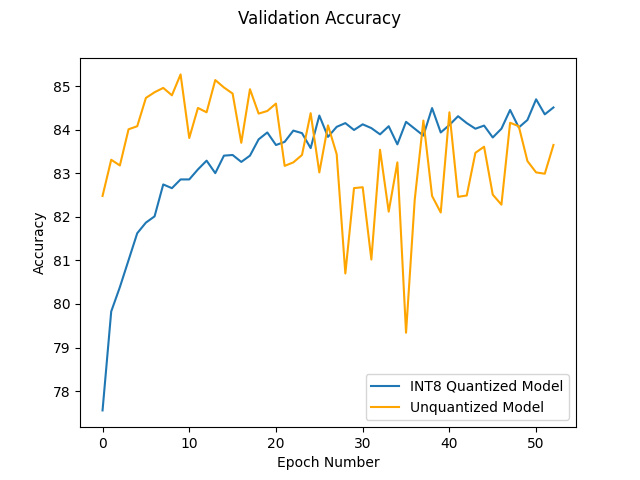
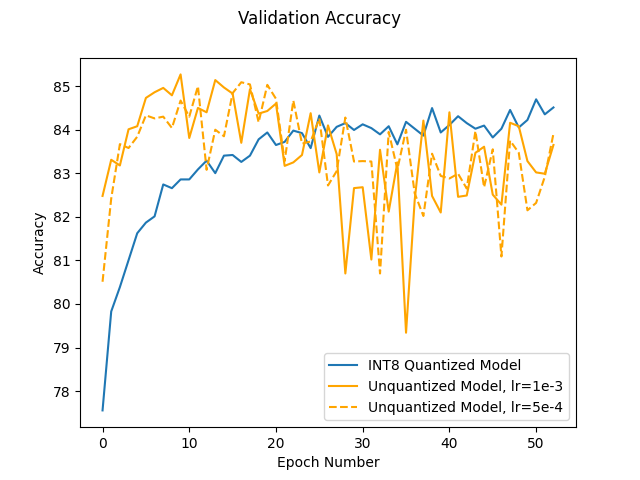
updated stats

diff --git a/parse_cudalog.py b/parse_cudalog.py
@@ -11,9 +11,10 @@ def convert_size(size_bytes):
     return f"{round(size_bytes, 2)} {size_name[i]}"
 
 
-qat_output = "[('active.all.allocated', 23497752), ('active.all.current', 1780), ('active.all.freed', 23495972), ('active.all.peak', 2635), ('active.large_pool.allocated', 8808954), ('active.large_pool.current', 333), ('active.large_pool.freed', 8808621), ('active.large_pool.peak', 890), ('active.small_pool.allocated', 14688798), ('active.small_pool.current', 1447), ('active.small_pool.freed', 14687351), ('active.small_pool.peak', 2076), ('active_bytes.all.allocated', 404802994906112), ('active_bytes.all.current', 1254882816), ('active_bytes.all.freed', 404801740023296), ('active_bytes.all.peak', 22251564544), ('active_bytes.large_pool.allocated', 404201313150976), ('active_bytes.large_pool.current', 1176536064), ('active_bytes.large_pool.freed', 404200136614912), ('active_bytes.large_pool.peak', 22144094208), ('active_bytes.small_pool.allocated', 601681755136), ('active_bytes.small_pool.current', 78346752), ('active_bytes.small_pool.freed', 601603408384), ('active_bytes.small_pool.peak', 107694080), ('allocated_bytes.all.allocated', 404802994906112), ('allocated_bytes.all.current', 1254882816), ('allocated_bytes.all.freed', 404801740023296), ('allocated_bytes.all.peak', 22251564544), ('allocated_bytes.large_pool.allocated', 404201313150976), ('allocated_bytes.large_pool.current', 1176536064), ('allocated_bytes.large_pool.freed', 404200136614912), ('allocated_bytes.large_pool.peak', 22144094208), ('allocated_bytes.small_pool.allocated', 601681755136), ('allocated_bytes.small_pool.current', 78346752), ('allocated_bytes.small_pool.freed', 601603408384), ('allocated_bytes.small_pool.peak', 107694080), ('allocation.all.allocated', 23497752), ('allocation.all.current', 1780), ('allocation.all.freed', 23495972), ('allocation.all.peak', 2635), ('allocation.large_pool.allocated', 8808954), ('allocation.large_pool.current', 333), ('allocation.large_pool.freed', 8808621), ('allocation.large_pool.peak', 890), ('allocation.small_pool.allocated', 14688798), ('allocation.small_pool.current', 1447), ('allocation.small_pool.freed', 14687351), ('allocation.small_pool.peak', 2076), ('inactive_split.all.allocated', 12665290), ('inactive_split.all.current', 126), ('inactive_split.all.freed', 12665164), ('inactive_split.all.peak', 168), ('inactive_split.large_pool.allocated', 4576309), ('inactive_split.large_pool.current', 87), ('inactive_split.large_pool.freed', 4576222), ('inactive_split.large_pool.peak', 106), ('inactive_split.small_pool.allocated', 8088981), ('inactive_split.small_pool.current', 39), ('inactive_split.small_pool.freed', 8088942), ('inactive_split.small_pool.peak', 90), ('inactive_split_bytes.all.allocated', 347615711572480), ('inactive_split_bytes.all.current', 6491996672), ('inactive_split_bytes.all.freed', 347609219575808), ('inactive_split_bytes.all.peak', 9727244800), ('inactive_split_bytes.large_pool.allocated', 346994862205952), ('inactive_split_bytes.large_pool.current', 6475971584), ('inactive_split_bytes.large_pool.freed', 346988386234368), ('inactive_split_bytes.large_pool.peak', 9711240192), ('inactive_split_bytes.small_pool.allocated', 620849366528), ('inactive_split_bytes.small_pool.current', 16025088), ('inactive_split_bytes.small_pool.freed', 620833341440), ('inactive_split_bytes.small_pool.peak', 27055104), ('max_split_size', -1), ('num_alloc_retries', 0), ('num_ooms', 0), ('oversize_allocations.allocated', 0), ('oversize_allocations.current', 0), ('oversize_allocations.freed', 0), ('oversize_allocations.peak', 0), ('oversize_segments.allocated', 0), ('oversize_segments.current', 0), ('oversize_segments.freed', 0), ('oversize_segments.peak', 0), ('reserved_bytes.all.allocated', 22724739072), ('reserved_bytes.all.current', 22477275136), ('reserved_bytes.all.freed', 247463936), ('reserved_bytes.all.peak', 22477275136), ('reserved_bytes.large_pool.allocated', 22605201408), ('reserved_bytes.large_pool.current', 22366126080), ('reserved_bytes.large_pool.freed', 239075328), ('reserved_bytes.large_pool.peak', 22366126080), ('reserved_bytes.small_pool.allocated', 119537664), ('reserved_bytes.small_pool.current', 111149056), ('reserved_bytes.small_pool.freed', 8388608), ('reserved_bytes.small_pool.peak', 111149056), ('segment.all.allocated', 186), ('segment.all.current', 179), ('segment.all.freed', 7), ('segment.all.peak', 179), ('segment.large_pool.allocated', 129), ('segment.large_pool.current', 126), ('segment.large_pool.freed', 3), ('segment.large_pool.peak', 126), ('segment.small_pool.allocated', 57), ('segment.small_pool.current', 53), ('segment.small_pool.freed', 4), ('segment.small_pool.peak', 53)]"
-vit_output = "[('active.all.allocated', 3735129), ('active.all.current', 721), ('active.all.freed', 3734408), ('active.all.peak', 1300), ('active.large_pool.allocated', 1434171), ('active.large_pool.current', 171), ('active.large_pool.freed', 1434000), ('active.large_pool.peak', 455), ('active.small_pool.allocated', 2300958), ('active.small_pool.current', 550), ('active.small_pool.freed', 2300408), ('active.small_pool.peak', 922), ('active_bytes.all.allocated', 104793636515328), ('active_bytes.all.current', 814213120), ('active_bytes.all.freed', 104792822302208), ('active_bytes.all.peak', 21219655680), ('active_bytes.large_pool.allocated', 104321173530624), ('active_bytes.large_pool.current', 764690432), ('active_bytes.large_pool.freed', 104320408840192), ('active_bytes.large_pool.peak', 21118613504), ('active_bytes.small_pool.allocated', 472462984704), ('active_bytes.small_pool.current', 49522688), ('active_bytes.small_pool.freed', 472413462016), ('active_bytes.small_pool.peak', 103129088), ('allocated_bytes.all.allocated', 104793636515328), ('allocated_bytes.all.current', 814213120), ('allocated_bytes.all.freed', 104792822302208), ('allocated_bytes.all.peak', 21219655680), ('allocated_bytes.large_pool.allocated', 104321173530624), ('allocated_bytes.large_pool.current', 764690432), ('allocated_bytes.large_pool.freed', 104320408840192), ('allocated_bytes.large_pool.peak', 21118613504), ('allocated_bytes.small_pool.allocated', 472462984704), ('allocated_bytes.small_pool.current', 49522688), ('allocated_bytes.small_pool.freed', 472413462016), ('allocated_bytes.small_pool.peak', 103129088), ('allocation.all.allocated', 3735129), ('allocation.all.current', 721), ('allocation.all.freed', 3734408), ('allocation.all.peak', 1300), ('allocation.large_pool.allocated', 1434171), ('allocation.large_pool.current', 171), ('allocation.large_pool.freed', 1434000), ('allocation.large_pool.peak', 455), ('allocation.small_pool.allocated', 2300958), ('allocation.small_pool.current', 550), ('allocation.small_pool.freed', 2300408), ('allocation.small_pool.peak', 922), ('inactive_split.all.allocated', 1831976), ('inactive_split.all.current', 65), ('inactive_split.all.freed', 1831911), ('inactive_split.all.peak', 154), ('inactive_split.large_pool.allocated', 682776), ('inactive_split.large_pool.current', 32), ('inactive_split.large_pool.freed', 682744), ('inactive_split.large_pool.peak', 116), ('inactive_split.small_pool.allocated', 1149200), ('inactive_split.small_pool.current', 33), ('inactive_split.small_pool.freed', 1149167), ('inactive_split.small_pool.peak', 70), ('inactive_split_bytes.all.allocated', 45603520485888), ('inactive_split_bytes.all.current', 666376192), ('inactive_split_bytes.all.freed', 45602854109696), ('inactive_split_bytes.all.peak', 2876618752), ('inactive_split_bytes.large_pool.allocated', 45123942183936), ('inactive_split_bytes.large_pool.current', 655081472), ('inactive_split_bytes.large_pool.freed', 45123287102464), ('inactive_split_bytes.large_pool.peak', 2852038656), ('inactive_split_bytes.small_pool.allocated', 479578301952), ('inactive_split_bytes.small_pool.current', 11294720), ('inactive_split_bytes.small_pool.freed', 479567007232), ('inactive_split_bytes.small_pool.peak', 36898816), ('max_split_size', -1), ('num_alloc_retries', 0), ('num_ooms', 0), ('oversize_allocations.allocated', 0), ('oversize_allocations.current', 0), ('oversize_allocations.freed', 0), ('oversize_allocations.peak', 0), ('oversize_segments.allocated', 0), ('oversize_segments.current', 0), ('oversize_segments.freed', 0), ('oversize_segments.peak', 0), ('requested_bytes.all.allocated', 104696113678878), ('requested_bytes.all.current', 813142816), ('requested_bytes.all.freed', 104695300536062), ('requested_bytes.all.peak', 21200522088), ('requested_bytes.large_pool.allocated', 104223750544100), ('requested_bytes.large_pool.current', 763631616), ('requested_bytes.large_pool.freed', 104222986912484), ('requested_bytes.large_pool.peak', 21099512704), ('requested_bytes.small_pool.allocated', 472363134778), ('requested_bytes.small_pool.current', 49511200), ('requested_bytes.small_pool.freed', 472313623578), ('requested_bytes.small_pool.peak', 103115432), ('reserved_bytes.all.allocated', 21904752640), ('reserved_bytes.all.current', 21904752640), ('reserved_bytes.all.freed', 0), ('reserved_bytes.all.peak', 21904752640), ('reserved_bytes.large_pool.allocated', 21797797888), ('reserved_bytes.large_pool.current', 21797797888), ('reserved_bytes.large_pool.freed', 0), ('reserved_bytes.large_pool.peak', 21797797888), ('reserved_bytes.small_pool.allocated', 106954752), ('reserved_bytes.small_pool.current', 106954752), ('reserved_bytes.small_pool.freed', 0), ('reserved_bytes.small_pool.peak', 106954752), ('segment.all.allocated', 224), ('segment.all.current', 224), ('segment.all.freed', 0), ('segment.all.peak', 224), ('segment.large_pool.allocated', 173), ('segment.large_pool.current', 173), ('segment.large_pool.freed', 0), ('segment.large_pool.peak', 173), ('segment.small_pool.allocated', 51), ('segment.small_pool.current', 51), ('segment.small_pool.freed', 0), ('segment.small_pool.peak', 51)]"
-
+# qat_output = "[('active.all.allocated', 23497752), ('active.all.current', 1780), ('active.all.freed', 23495972), ('active.all.peak', 2635), ('active.large_pool.allocated', 8808954), ('active.large_pool.current', 333), ('active.large_pool.freed', 8808621), ('active.large_pool.peak', 890), ('active.small_pool.allocated', 14688798), ('active.small_pool.current', 1447), ('active.small_pool.freed', 14687351), ('active.small_pool.peak', 2076), ('active_bytes.all.allocated', 404802994906112), ('active_bytes.all.current', 1254882816), ('active_bytes.all.freed', 404801740023296), ('active_bytes.all.peak', 22251564544), ('active_bytes.large_pool.allocated', 404201313150976), ('active_bytes.large_pool.current', 1176536064), ('active_bytes.large_pool.freed', 404200136614912), ('active_bytes.large_pool.peak', 22144094208), ('active_bytes.small_pool.allocated', 601681755136), ('active_bytes.small_pool.current', 78346752), ('active_bytes.small_pool.freed', 601603408384), ('active_bytes.small_pool.peak', 107694080), ('allocated_bytes.all.allocated', 404802994906112), ('allocated_bytes.all.current', 1254882816), ('allocated_bytes.all.freed', 404801740023296), ('allocated_bytes.all.peak', 22251564544), ('allocated_bytes.large_pool.allocated', 404201313150976), ('allocated_bytes.large_pool.current', 1176536064), ('allocated_bytes.large_pool.freed', 404200136614912), ('allocated_bytes.large_pool.peak', 22144094208), ('allocated_bytes.small_pool.allocated', 601681755136), ('allocated_bytes.small_pool.current', 78346752), ('allocated_bytes.small_pool.freed', 601603408384), ('allocated_bytes.small_pool.peak', 107694080), ('allocation.all.allocated', 23497752), ('allocation.all.current', 1780), ('allocation.all.freed', 23495972), ('allocation.all.peak', 2635), ('allocation.large_pool.allocated', 8808954), ('allocation.large_pool.current', 333), ('allocation.large_pool.freed', 8808621), ('allocation.large_pool.peak', 890), ('allocation.small_pool.allocated', 14688798), ('allocation.small_pool.current', 1447), ('allocation.small_pool.freed', 14687351), ('allocation.small_pool.peak', 2076), ('inactive_split.all.allocated', 12665290), ('inactive_split.all.current', 126), ('inactive_split.all.freed', 12665164), ('inactive_split.all.peak', 168), ('inactive_split.large_pool.allocated', 4576309), ('inactive_split.large_pool.current', 87), ('inactive_split.large_pool.freed', 4576222), ('inactive_split.large_pool.peak', 106), ('inactive_split.small_pool.allocated', 8088981), ('inactive_split.small_pool.current', 39), ('inactive_split.small_pool.freed', 8088942), ('inactive_split.small_pool.peak', 90), ('inactive_split_bytes.all.allocated', 347615711572480), ('inactive_split_bytes.all.current', 6491996672), ('inactive_split_bytes.all.freed', 347609219575808), ('inactive_split_bytes.all.peak', 9727244800), ('inactive_split_bytes.large_pool.allocated', 346994862205952), ('inactive_split_bytes.large_pool.current', 6475971584), ('inactive_split_bytes.large_pool.freed', 346988386234368), ('inactive_split_bytes.large_pool.peak', 9711240192), ('inactive_split_bytes.small_pool.allocated', 620849366528), ('inactive_split_bytes.small_pool.current', 16025088), ('inactive_split_bytes.small_pool.freed', 620833341440), ('inactive_split_bytes.small_pool.peak', 27055104), ('max_split_size', -1), ('num_alloc_retries', 0), ('num_ooms', 0), ('oversize_allocations.allocated', 0), ('oversize_allocations.current', 0), ('oversize_allocations.freed', 0), ('oversize_allocations.peak', 0), ('oversize_segments.allocated', 0), ('oversize_segments.current', 0), ('oversize_segments.freed', 0), ('oversize_segments.peak', 0), ('reserved_bytes.all.allocated', 22724739072), ('reserved_bytes.all.current', 22477275136), ('reserved_bytes.all.freed', 247463936), ('reserved_bytes.all.peak', 22477275136), ('reserved_bytes.large_pool.allocated', 22605201408), ('reserved_bytes.large_pool.current', 22366126080), ('reserved_bytes.large_pool.freed', 239075328), ('reserved_bytes.large_pool.peak', 22366126080), ('reserved_bytes.small_pool.allocated', 119537664), ('reserved_bytes.small_pool.current', 111149056), ('reserved_bytes.small_pool.freed', 8388608), ('reserved_bytes.small_pool.peak', 111149056), ('segment.all.allocated', 186), ('segment.all.current', 179), ('segment.all.freed', 7), ('segment.all.peak', 179), ('segment.large_pool.allocated', 129), ('segment.large_pool.current', 126), ('segment.large_pool.freed', 3), ('segment.large_pool.peak', 126), ('segment.small_pool.allocated', 57), ('segment.small_pool.current', 53), ('segment.small_pool.freed', 4), ('segment.small_pool.peak', 53)]"
+# vit_output = "[('active.all.allocated', 3735129), ('active.all.current', 721), ('active.all.freed', 3734408), ('active.all.peak', 1300), ('active.large_pool.allocated', 1434171), ('active.large_pool.current', 171), ('active.large_pool.freed', 1434000), ('active.large_pool.peak', 455), ('active.small_pool.allocated', 2300958), ('active.small_pool.current', 550), ('active.small_pool.freed', 2300408), ('active.small_pool.peak', 922), ('active_bytes.all.allocated', 104793636515328), ('active_bytes.all.current', 814213120), ('active_bytes.all.freed', 104792822302208), ('active_bytes.all.peak', 21219655680), ('active_bytes.large_pool.allocated', 104321173530624), ('active_bytes.large_pool.current', 764690432), ('active_bytes.large_pool.freed', 104320408840192), ('active_bytes.large_pool.peak', 21118613504), ('active_bytes.small_pool.allocated', 472462984704), ('active_bytes.small_pool.current', 49522688), ('active_bytes.small_pool.freed', 472413462016), ('active_bytes.small_pool.peak', 103129088), ('allocated_bytes.all.allocated', 104793636515328), ('allocated_bytes.all.current', 814213120), ('allocated_bytes.all.freed', 104792822302208), ('allocated_bytes.all.peak', 21219655680), ('allocated_bytes.large_pool.allocated', 104321173530624), ('allocated_bytes.large_pool.current', 764690432), ('allocated_bytes.large_pool.freed', 104320408840192), ('allocated_bytes.large_pool.peak', 21118613504), ('allocated_bytes.small_pool.allocated', 472462984704), ('allocated_bytes.small_pool.current', 49522688), ('allocated_bytes.small_pool.freed', 472413462016), ('allocated_bytes.small_pool.peak', 103129088), ('allocation.all.allocated', 3735129), ('allocation.all.current', 721), ('allocation.all.freed', 3734408), ('allocation.all.peak', 1300), ('allocation.large_pool.allocated', 1434171), ('allocation.large_pool.current', 171), ('allocation.large_pool.freed', 1434000), ('allocation.large_pool.peak', 455), ('allocation.small_pool.allocated', 2300958), ('allocation.small_pool.current', 550), ('allocation.small_pool.freed', 2300408), ('allocation.small_pool.peak', 922), ('inactive_split.all.allocated', 1831976), ('inactive_split.all.current', 65), ('inactive_split.all.freed', 1831911), ('inactive_split.all.peak', 154), ('inactive_split.large_pool.allocated', 682776), ('inactive_split.large_pool.current', 32), ('inactive_split.large_pool.freed', 682744), ('inactive_split.large_pool.peak', 116), ('inactive_split.small_pool.allocated', 1149200), ('inactive_split.small_pool.current', 33), ('inactive_split.small_pool.freed', 1149167), ('inactive_split.small_pool.peak', 70), ('inactive_split_bytes.all.allocated', 45603520485888), ('inactive_split_bytes.all.current', 666376192), ('inactive_split_bytes.all.freed', 45602854109696), ('inactive_split_bytes.all.peak', 2876618752), ('inactive_split_bytes.large_pool.allocated', 45123942183936), ('inactive_split_bytes.large_pool.current', 655081472), ('inactive_split_bytes.large_pool.freed', 45123287102464), ('inactive_split_bytes.large_pool.peak', 2852038656), ('inactive_split_bytes.small_pool.allocated', 479578301952), ('inactive_split_bytes.small_pool.current', 11294720), ('inactive_split_bytes.small_pool.freed', 479567007232), ('inactive_split_bytes.small_pool.peak', 36898816), ('max_split_size', -1), ('num_alloc_retries', 0), ('num_ooms', 0), ('oversize_allocations.allocated', 0), ('oversize_allocations.current', 0), ('oversize_allocations.freed', 0), ('oversize_allocations.peak', 0), ('oversize_segments.allocated', 0), ('oversize_segments.current', 0), ('oversize_segments.freed', 0), ('oversize_segments.peak', 0), ('requested_bytes.all.allocated', 104696113678878), ('requested_bytes.all.current', 813142816), ('requested_bytes.all.freed', 104695300536062), ('requested_bytes.all.peak', 21200522088), ('requested_bytes.large_pool.allocated', 104223750544100), ('requested_bytes.large_pool.current', 763631616), ('requested_bytes.large_pool.freed', 104222986912484), ('requested_bytes.large_pool.peak', 21099512704), ('requested_bytes.small_pool.allocated', 472363134778), ('requested_bytes.small_pool.current', 49511200), ('requested_bytes.small_pool.freed', 472313623578), ('requested_bytes.small_pool.peak', 103115432), ('reserved_bytes.all.allocated', 21904752640), ('reserved_bytes.all.current', 21904752640), ('reserved_bytes.all.freed', 0), ('reserved_bytes.all.peak', 21904752640), ('reserved_bytes.large_pool.allocated', 21797797888), ('reserved_bytes.large_pool.current', 21797797888), ('reserved_bytes.large_pool.freed', 0), ('reserved_bytes.large_pool.peak', 21797797888), ('reserved_bytes.small_pool.allocated', 106954752), ('reserved_bytes.small_pool.current', 106954752), ('reserved_bytes.small_pool.freed', 0), ('reserved_bytes.small_pool.peak', 106954752), ('segment.all.allocated', 224), ('segment.all.current', 224), ('segment.all.freed', 0), ('segment.all.peak', 224), ('segment.large_pool.allocated', 173), ('segment.large_pool.current', 173), ('segment.large_pool.freed', 0), ('segment.large_pool.peak', 173), ('segment.small_pool.allocated', 51), ('segment.small_pool.current', 51), ('segment.small_pool.freed', 0), ('segment.small_pool.peak', 51)]"
+qat_output = "[('active.all.allocated', 211295), ('active.all.current', 710), ('active.all.freed', 210585), ('active.all.peak', 728), ('active.large_pool.allocated', 67202), ('active.large_pool.current', 85), ('active.large_pool.freed', 67117), ('active.large_pool.peak', 99), ('active.small_pool.allocated', 144093), ('active.small_pool.current', 625), ('active.small_pool.freed', 143468), ('active.small_pool.peak', 631), ('active_bytes.all.allocated', 26932959262208), ('active_bytes.all.current', 619423232), ('active_bytes.all.freed', 26932339838976), ('active_bytes.all.peak', 10162802176), ('active_bytes.large_pool.allocated', 26928266225152), ('active_bytes.large_pool.current', 594480128), ('active_bytes.large_pool.freed', 26927671745024), ('active_bytes.large_pool.peak', 10137857024), ('active_bytes.small_pool.allocated', 4693037056), ('active_bytes.small_pool.current', 24943104), ('active_bytes.small_pool.freed', 4668093952), ('active_bytes.small_pool.peak', 27052544), ('allocated_bytes.all.allocated', 26932959262208), ('allocated_bytes.all.current', 619423232), ('allocated_bytes.all.freed', 26932339838976), ('allocated_bytes.all.peak', 10162802176), ('allocated_bytes.large_pool.allocated', 26928266225152), ('allocated_bytes.large_pool.current', 594480128), ('allocated_bytes.large_pool.freed', 26927671745024), ('allocated_bytes.large_pool.peak', 10137857024), ('allocated_bytes.small_pool.allocated', 4693037056), ('allocated_bytes.small_pool.current', 24943104), ('allocated_bytes.small_pool.freed', 4668093952), ('allocated_bytes.small_pool.peak', 27052544), ('allocation.all.allocated', 211295), ('allocation.all.current', 710), ('allocation.all.freed', 210585), ('allocation.all.peak', 728), ('allocation.large_pool.allocated', 67202), ('allocation.large_pool.current', 85), ('allocation.large_pool.freed', 67117), ('allocation.large_pool.peak', 99), ('allocation.small_pool.allocated', 144093), ('allocation.small_pool.current', 625), ('allocation.small_pool.freed', 143468), ('allocation.small_pool.peak', 631), ('inactive_split.all.allocated', 94905), ('inactive_split.all.current', 22), ('inactive_split.all.freed', 94883), ('inactive_split.all.peak', 32), ('inactive_split.large_pool.allocated', 35869), ('inactive_split.large_pool.current', 19), ('inactive_split.large_pool.freed', 35850), ('inactive_split.large_pool.peak', 27), ('inactive_split.small_pool.allocated', 59036), ('inactive_split.small_pool.current', 3), ('inactive_split.small_pool.freed', 59033), ('inactive_split.small_pool.peak', 7), ('inactive_split_bytes.all.allocated', 15070396525056), ('inactive_split_bytes.all.current', 51665408), ('inactive_split_bytes.all.freed', 15070344859648), ('inactive_split_bytes.all.peak', 2519259648), ('inactive_split_bytes.large_pool.allocated', 15059303227904), ('inactive_split_bytes.large_pool.current', 51442688), ('inactive_split_bytes.large_pool.freed', 15059251785216), ('inactive_split_bytes.large_pool.peak', 2517234688), ('inactive_split_bytes.small_pool.allocated', 11093297152), ('inactive_split_bytes.small_pool.current', 222720), ('inactive_split_bytes.small_pool.freed', 11093074432), ('inactive_split_bytes.small_pool.peak', 2192896), ('max_split_size', -1), ('num_alloc_retries', 0), ('num_ooms', 0), ('oversize_allocations.allocated', 0), ('oversize_allocations.current', 0), ('oversize_allocations.freed', 0), ('oversize_allocations.peak', 0), ('oversize_segments.allocated', 0), ('oversize_segments.current', 0), ('oversize_segments.freed', 0), ('oversize_segments.peak', 0), ('reserved_bytes.all.allocated', 13665042432), ('reserved_bytes.all.current', 13665042432), ('reserved_bytes.all.freed', 0), ('reserved_bytes.all.peak', 13665042432), ('reserved_bytes.large_pool.allocated', 13637779456), ('reserved_bytes.large_pool.current', 13637779456), ('reserved_bytes.large_pool.freed', 0), ('reserved_bytes.large_pool.peak', 13637779456), ('reserved_bytes.small_pool.allocated', 27262976), ('reserved_bytes.small_pool.current', 27262976), ('reserved_bytes.small_pool.freed', 0), ('reserved_bytes.small_pool.peak', 27262976), ('segment.all.allocated', 43), ('segment.all.current', 43), ('segment.all.freed', 0), ('segment.all.peak', 43), ('segment.large_pool.allocated', 30), ('segment.large_pool.current', 30), ('segment.large_pool.freed', 0), ('segment.large_pool.peak', 30), ('segment.small_pool.allocated', 13), ('segment.small_pool.current', 13), ('segment.small_pool.freed', 0), ('segment.small_pool.peak', 13)]"
+vit_output = "[('active.all.allocated', 58042), ('active.all.current', 364), ('active.all.freed', 57678), ('active.all.peak', 375), ('active.large_pool.allocated', 22898), ('active.large_pool.current', 86), ('active.large_pool.freed', 22812), ('active.large_pool.peak', 96), ('active.small_pool.allocated', 35144), ('active.small_pool.current', 278), ('active.small_pool.freed', 34866), ('active.small_pool.peak', 283), ('active_bytes.all.allocated', 10061830721024), ('active_bytes.all.current', 512748032), ('active_bytes.all.freed', 10061317972992), ('active_bytes.all.peak', 6534930944), ('active_bytes.large_pool.allocated', 10052809724416), ('active_bytes.large_pool.current', 487984128), ('active_bytes.large_pool.freed', 10052321740288), ('active_bytes.large_pool.peak', 6509116416), ('active_bytes.small_pool.allocated', 9020996608), ('active_bytes.small_pool.current', 24763904), ('active_bytes.small_pool.freed', 8996232704), ('active_bytes.small_pool.peak', 26875392), ('allocated_bytes.all.allocated', 10061830721024), ('allocated_bytes.all.current', 512748032), ('allocated_bytes.all.freed', 10061317972992), ('allocated_bytes.all.peak', 6534930944), ('allocated_bytes.large_pool.allocated', 10052809724416), ('allocated_bytes.large_pool.current', 487984128), ('allocated_bytes.large_pool.freed', 10052321740288), ('allocated_bytes.large_pool.peak', 6509116416), ('allocated_bytes.small_pool.allocated', 9020996608), ('allocated_bytes.small_pool.current', 24763904), ('allocated_bytes.small_pool.freed', 8996232704), ('allocated_bytes.small_pool.peak', 26875392), ('allocation.all.allocated', 58042), ('allocation.all.current', 364), ('allocation.all.freed', 57678), ('allocation.all.peak', 375), ('allocation.large_pool.allocated', 22898), ('allocation.large_pool.current', 86), ('allocation.large_pool.freed', 22812), ('allocation.large_pool.peak', 96), ('allocation.small_pool.allocated', 35144), ('allocation.small_pool.current', 278), ('allocation.small_pool.freed', 34866), ('allocation.small_pool.peak', 283), ('inactive_split.all.allocated', 28516), ('inactive_split.all.current', 23), ('inactive_split.all.freed', 28493), ('inactive_split.all.peak', 30), ('inactive_split.large_pool.allocated', 10823), ('inactive_split.large_pool.current', 20), ('inactive_split.large_pool.freed', 10803), ('inactive_split.large_pool.peak', 25), ('inactive_split.small_pool.allocated', 17693), ('inactive_split.small_pool.current', 3), ('inactive_split.small_pool.freed', 17690), ('inactive_split.small_pool.peak', 6), ('inactive_split_bytes.all.allocated', 5433291600896), ('inactive_split_bytes.all.current', 158340608), ('inactive_split_bytes.all.freed', 5433133260288), ('inactive_split_bytes.all.peak', 3289399296), ('inactive_split_bytes.large_pool.allocated', 5420216365568), ('inactive_split_bytes.large_pool.current', 157938688), ('inactive_split_bytes.large_pool.freed', 5420058426880), ('inactive_split_bytes.large_pool.peak', 3288998912), ('inactive_split_bytes.small_pool.allocated', 13075235328), ('inactive_split_bytes.small_pool.current', 401920), ('inactive_split_bytes.small_pool.freed', 13074833408), ('inactive_split_bytes.small_pool.peak', 2240000), ('max_split_size', -1), ('num_alloc_retries', 0), ('num_ooms', 0), ('oversize_allocations.allocated', 0), ('oversize_allocations.current', 0), ('oversize_allocations.freed', 0), ('oversize_allocations.peak', 0), ('oversize_segments.allocated', 0), ('oversize_segments.current', 0), ('oversize_segments.freed', 0), ('oversize_segments.peak', 0), ('requested_bytes.all.allocated', 10061510896283), ('requested_bytes.all.current', 512742132), ('requested_bytes.all.freed', 10060998154151), ('requested_bytes.all.peak', 6534925596), ('requested_bytes.large_pool.allocated', 10052490456288), ('requested_bytes.large_pool.current', 487984128), ('requested_bytes.large_pool.freed', 10052002472160), ('requested_bytes.large_pool.peak', 6509116416), ('requested_bytes.small_pool.allocated', 9020439995), ('requested_bytes.small_pool.current', 24758004), ('requested_bytes.small_pool.freed', 8995681991), ('requested_bytes.small_pool.peak', 26870044), ('reserved_bytes.all.allocated', 9552527360), ('reserved_bytes.all.current', 9552527360), ('reserved_bytes.all.freed', 0), ('reserved_bytes.all.peak', 9552527360), ('reserved_bytes.large_pool.allocated', 9525264384), ('reserved_bytes.large_pool.current', 9525264384), ('reserved_bytes.large_pool.freed', 0), ('reserved_bytes.large_pool.peak', 9525264384), ('reserved_bytes.small_pool.allocated', 27262976), ('reserved_bytes.small_pool.current', 27262976), ('reserved_bytes.small_pool.freed', 0), ('reserved_bytes.small_pool.peak', 27262976), ('segment.all.allocated', 40), ('segment.all.current', 40), ('segment.all.freed', 0), ('segment.all.peak', 40), ('segment.large_pool.allocated', 27), ('segment.large_pool.current', 27), ('segment.large_pool.freed', 0), ('segment.large_pool.peak', 27), ('segment.small_pool.allocated', 13), ('segment.small_pool.current', 13), ('segment.small_pool.freed', 0), ('segment.small_pool.peak', 13)]"
 # Convert the string representation to an actual ordered dict
 qat_output = dict(literal_eval(qat_output))
 vit_output = dict(literal_eval(vit_output))
@@ -22,6 +23,7 @@ print(len(qat_output))
 print(len(vit_output))
 # Print the key-value pairs
 print("| key | QAT | ViT | QAT - ViT difference|")
+print("| ---------------------| --------| -------| ---------------------|")
 for key in qat_output:
     if "bytes" in key:
         print(

diff --git a/parse_qat.py b/parse_qat.py
@@ -26,18 +26,35 @@ with open('loss_acc.txt.vit.new', 'r') as file:
         # Add the value to the array
         reg_vit.append(value*100)
 
+lowlr_vit = []
+
+with open('loss_acc.txt.vit.lowlr', 'r') as file:
+    for line in file:
+        # Split the line into a list of values using the comma as the delimiter
+        line_values = line.strip().split(',')
+
+        # Get the fourth-to-last value
+        value = float(line_values[-4])
+
+        # Add the value to the array
+        lowlr_vit.append(value*100)
+
 print("end")
 print("max non-quantized accuracy: ", max(reg_vit))
+print("index of non-quantized accuracy: ", reg_vit.index(max(reg_vit)))
+print("max non-quantized accuracy, low lr: ", max(lowlr_vit))
+print("index of non-quantized accuracy, low lr: ", lowlr_vit.index(max(lowlr_vit)))
 print("max quantized accuracy: ", max(accuracy_list))
 
-num_epochs = min(len(accuracy_list), len(reg_vit))
+num_epochs = min(len(accuracy_list), len(reg_vit), len(lowlr_vit))
 
 fig, ax = plt.subplots()
 
 fig.suptitle('Validation Accuracy')
 
 ax.plot(range(num_epochs), accuracy_list[:num_epochs], label='INT8 Quantized Model')
-ax.plot(range(num_epochs), reg_vit[:num_epochs], color="orange", label='Unquantized Model')
+ax.plot(range(num_epochs), reg_vit[:num_epochs], color="orange", label='Unquantized Model, lr=1e-3')
+ax.plot(range(num_epochs), lowlr_vit[:num_epochs], color="orange", label='Unquantized Model, lr=5e-4', linestyle='--')
 
 ax.set_xlabel('Epoch Number')
 ax.set_ylabel('Accuracy')

diff --git a/README.md b/README.md
@@ -108,3 +108,114 @@
 | segment.small_pool.current | 53 | 51 | 2 |
 | segment.small_pool.freed | 4 | 0 | 4 |
 | segment.small_pool.peak | 53 | 51 | 2 |
+
+# eval() stats
+| key | QAT | ViT | QAT - ViT difference|
+| ---------------------| --------| -------| ---------------------|
+| active.all.allocated | 211295 | 58042 | 153253 |
+| active.all.current | 710 | 364 | 346 |
+| active.all.freed | 210585 | 57678 | 152907 |
+| active.all.peak | 728 | 375 | 353 |
+| active.large_pool.allocated | 67202 | 22898 | 44304 |
+| active.large_pool.current | 85 | 86 | -1 |
+| active.large_pool.freed | 67117 | 22812 | 44305 |
+| active.large_pool.peak | 99 | 96 | 3 |
+| active.small_pool.allocated | 144093 | 35144 | 108949 |
+| active.small_pool.current | 625 | 278 | 347 |
+| active.small_pool.freed | 143468 | 34866 | 108602 |
+| active.small_pool.peak | 631 | 283 | 348 |
+| active_bytes.all.allocated | 24.5 TB | 9.15 TB | 15.34 TB |
+| active_bytes.all.current | 590.73 MB | 488.99 MB | 101.73 MB |
+| active_bytes.all.freed | 24.49 TB | 9.15 TB | 15.34 TB |
+| active_bytes.all.peak | 9.46 GB | 6.09 GB | 3.38 GB |
+| active_bytes.large_pool.allocated | 24.49 TB | 9.14 TB | 15.35 TB |
+| active_bytes.large_pool.current | 566.94 MB | 465.38 MB | 101.56 MB |
+| active_bytes.large_pool.freed | 24.49 TB | 9.14 TB | 15.35 TB |
+| active_bytes.large_pool.peak | 9.44 GB | 6.06 GB | 3.38 GB |
+| active_bytes.small_pool.allocated | 4.37 GB | 8.4 GB | -4327959552 Bytes |
+| active_bytes.small_pool.current | 23.79 MB | 23.62 MB | 175.0 KB |
+| active_bytes.small_pool.freed | 4.35 GB | 8.38 GB | -4328138752 Bytes |
+| active_bytes.small_pool.peak | 25.8 MB | 25.63 MB | 173.0 KB |
+| allocated_bytes.all.allocated | 24.5 TB | 9.15 TB | 15.34 TB |
+| allocated_bytes.all.current | 590.73 MB | 488.99 MB | 101.73 MB |
+| allocated_bytes.all.freed | 24.49 TB | 9.15 TB | 15.34 TB |
+| allocated_bytes.all.peak | 9.46 GB | 6.09 GB | 3.38 GB |
+| allocated_bytes.large_pool.allocated | 24.49 TB | 9.14 TB | 15.35 TB |
+| allocated_bytes.large_pool.current | 566.94 MB | 465.38 MB | 101.56 MB |
+| allocated_bytes.large_pool.freed | 24.49 TB | 9.14 TB | 15.35 TB |
+| allocated_bytes.large_pool.peak | 9.44 GB | 6.06 GB | 3.38 GB |
+| allocated_bytes.small_pool.allocated | 4.37 GB | 8.4 GB | -4327959552 Bytes |
+| allocated_bytes.small_pool.current | 23.79 MB | 23.62 MB | 175.0 KB |
+| allocated_bytes.small_pool.freed | 4.35 GB | 8.38 GB | -4328138752 Bytes |
+| allocated_bytes.small_pool.peak | 25.8 MB | 25.63 MB | 173.0 KB |
+| allocation.all.allocated | 211295 | 58042 | 153253 |
+| allocation.all.current | 710 | 364 | 346 |
+| allocation.all.freed | 210585 | 57678 | 152907 |
+| allocation.all.peak | 728 | 375 | 353 |
+| allocation.large_pool.allocated | 67202 | 22898 | 44304 |
+| allocation.large_pool.current | 85 | 86 | -1 |
+| allocation.large_pool.freed | 67117 | 22812 | 44305 |
+| allocation.large_pool.peak | 99 | 96 | 3 |
+| allocation.small_pool.allocated | 144093 | 35144 | 108949 |
+| allocation.small_pool.current | 625 | 278 | 347 |
+| allocation.small_pool.freed | 143468 | 34866 | 108602 |
+| allocation.small_pool.peak | 631 | 283 | 348 |
+| inactive_split.all.allocated | 94905 | 28516 | 66389 |
+| inactive_split.all.current | 22 | 23 | -1 |
+| inactive_split.all.freed | 94883 | 28493 | 66390 |
+| inactive_split.all.peak | 32 | 30 | 2 |
+| inactive_split.large_pool.allocated | 35869 | 10823 | 25046 |
+| inactive_split.large_pool.current | 19 | 20 | -1 |
+| inactive_split.large_pool.freed | 35850 | 10803 | 25047 |
+| inactive_split.large_pool.peak | 27 | 25 | 2 |
+| inactive_split.small_pool.allocated | 59036 | 17693 | 41343 |
+| inactive_split.small_pool.current | 3 | 3 | 0 |
+| inactive_split.small_pool.freed | 59033 | 17690 | 41343 |
+| inactive_split.small_pool.peak | 7 | 6 | 1 |
+| inactive_split_bytes.all.allocated | 13.71 TB | 4.94 TB | 8.76 TB |
+| inactive_split_bytes.all.current | 49.27 MB | 151.01 MB | -106675200 Bytes |
+| inactive_split_bytes.all.freed | 13.71 TB | 4.94 TB | 8.76 TB |
+| inactive_split_bytes.all.peak | 2.35 GB | 3.06 GB | -770139648 Bytes |
+| inactive_split_bytes.large_pool.allocated | 13.7 TB | 4.93 TB | 8.77 TB |
+| inactive_split_bytes.large_pool.current | 49.06 MB | 150.62 MB | -106496000 Bytes |
+| inactive_split_bytes.large_pool.freed | 13.7 TB | 4.93 TB | 8.77 TB |
+| inactive_split_bytes.large_pool.peak | 2.34 GB | 3.06 GB | -771764224 Bytes |
+| inactive_split_bytes.small_pool.allocated | 10.33 GB | 12.18 GB | -1981938176 Bytes |
+| inactive_split_bytes.small_pool.current | 217.5 KB | 392.5 KB | -179200 Bytes |
+| inactive_split_bytes.small_pool.freed | 10.33 GB | 12.18 GB | -1981758976 Bytes |
+| inactive_split_bytes.small_pool.peak | 2.09 MB | 2.14 MB | -47104 Bytes |
+| max_split_size | -1 | -1 | 0 |
+| num_alloc_retries | 0 | 0 | 0 |
+| num_ooms | 0 | 0 | 0 |
+| oversize_allocations.allocated | 0 | 0 | 0 |
+| oversize_allocations.current | 0 | 0 | 0 |
+| oversize_allocations.freed | 0 | 0 | 0 |
+| oversize_allocations.peak | 0 | 0 | 0 |
+| oversize_segments.allocated | 0 | 0 | 0 |
+| oversize_segments.current | 0 | 0 | 0 |
+| oversize_segments.freed | 0 | 0 | 0 |
+| oversize_segments.peak | 0 | 0 | 0 |
+| reserved_bytes.all.allocated | 12.73 GB | 8.9 GB | 3.83 GB |
+| reserved_bytes.all.current | 12.73 GB | 8.9 GB | 3.83 GB |
+| reserved_bytes.all.freed | 0 Bytes | 0 Bytes | 0 Bytes |
+| reserved_bytes.all.peak | 12.73 GB | 8.9 GB | 3.83 GB |
+| reserved_bytes.large_pool.allocated | 12.7 GB | 8.87 GB | 3.83 GB |
+| reserved_bytes.large_pool.current | 12.7 GB | 8.87 GB | 3.83 GB |
+| reserved_bytes.large_pool.freed | 0 Bytes | 0 Bytes | 0 Bytes |
+| reserved_bytes.large_pool.peak | 12.7 GB | 8.87 GB | 3.83 GB |
+| reserved_bytes.small_pool.allocated | 26.0 MB | 26.0 MB | 0 Bytes |
+| reserved_bytes.small_pool.current | 26.0 MB | 26.0 MB | 0 Bytes |
+| reserved_bytes.small_pool.freed | 0 Bytes | 0 Bytes | 0 Bytes |
+| reserved_bytes.small_pool.peak | 26.0 MB | 26.0 MB | 0 Bytes |
+| segment.all.allocated | 43 | 40 | 3 |
+| segment.all.current | 43 | 40 | 3 |
+| segment.all.freed | 0 | 0 | 0 |
+| segment.all.peak | 43 | 40 | 3 |
+| segment.large_pool.allocated | 30 | 27 | 3 |
+| segment.large_pool.current | 30 | 27 | 3 |
+| segment.large_pool.freed | 0 | 0 | 0 |
+| segment.large_pool.peak | 30 | 27 | 3 |
+| segment.small_pool.allocated | 13 | 13 | 0 |
+| segment.small_pool.current | 13 | 13 | 0 |
+| segment.small_pool.freed | 0 | 0 | 0 |
+| segment.small_pool.peak | 13 | 13 | 0 |
